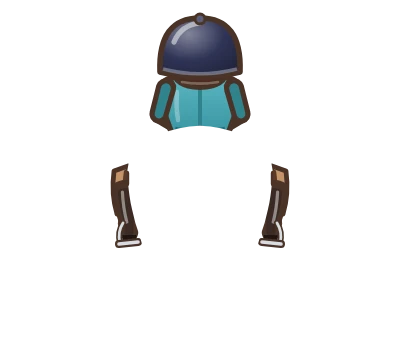
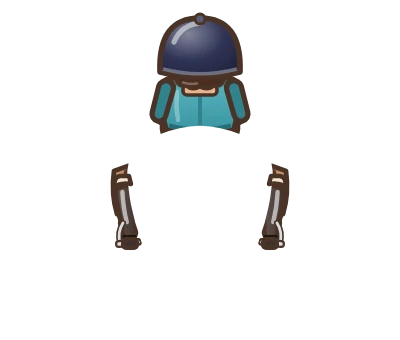
WIP: all racers behind the start line, per-rival launch/avoid, results portraits + gaps, MLS polish
Claude-Session: https://claude.ai/code/session_011bftBeXudnSzAMBxDFXhpR

diff --git a/engine.js b/engine.js
@@ -3752,14 +3752,18 @@ function r3Rivals() {
   if (R3.mode === "chase") { r3ChaseInit(); return; }
   if (R3.mode !== "rivals" || !RV || !(RV.list || []).length) return;
   const n = Math.min(RV.count || RV.list.length, RV.list.length), sk = RV.skill || [0.84, 0.97];
+  // each race shuffles who is fast: a strong rider can start at the back and come through the field
+  const rnd = r3Rng((Date.now() & 0xffff) + 7), order = [...Array(n).keys()].sort(() => rnd() - 0.5), av = RV.avoid || [0.7, 0.95];
   for (let k = 0; k < n; k++) {
     const d = RV.list[k], base = r3Img(d.sprite); if (!base) continue;
     const rid = d.rider ? r3Img(d.rider) : null;
     R3.rivals.push({
-      name: d.name || "#" + (k + 1), color: d.color || null, img: r3Tint(base, d.tint || null), rider: rid ? r3Tint(rid, d.riderTint || null) : null,
+      name: d.name || "#" + (k + 1), color: d.color || null, head: d.head || null, img: r3Tint(base, d.tint || null), rider: rid ? r3Tint(rid, d.riderTint || null) : null,
       scale: d.scale || RV.scale || 6.5, hw: d.hw != null ? d.hw : (RV.hw != null ? RV.hw : 0.28),
       // the front of the grid is the strongest; everybody gets a little personality (wobble phase, lane)
-      skill: n > 1 ? sk[1] - (sk[1] - sk[0]) * (k / (n - 1)) : sk[1], row: k,
+      skill: n > 1 ? sk[1] - (sk[1] - sk[0]) * (order[k] / (n - 1)) : sk[1], row: k,
+      // a personal start (reaction 0–0.4 s, launch 0.6–1.5) and how often it dodges an obstacle in time
+      react: rnd() * 0.4, launch: 0.6 + rnd() * 0.9, avoid: av[0] + rnd() * (av[1] - av[0]), seen: new Set(), slowT: 0,
       x: RV.lanes ? RV.lanes[k % RV.lanes.length] : (k % 2 ? 0.45 : -0.45), tx: RV.lanes ? RV.lanes[k % RV.lanes.length] : (k % 2 ? 0.45 : -0.45),
       ph: k * 1.7, z: 0, speed: 0, done: 0,
     });
@@ -3902,8 +3906,10 @@ function r3Grid() {
   // gridFirst (segments): the first row starts far enough ahead not to overlap the player's sprite
   const RV = RACE.rivals, gap = R3.segLen * (RV.gridGap || 4), first = R3.segLen * (RV.gridFirst || 0), pz = r3PlayerZ(), n = R3.rivals.length;
   R3.rivals.forEach((r) => { r.z = pz + first + gap * (Math.floor((n - 1 - r.row) / 2) + 1) + (r.row % 2) * gap * 0.5; });
-  // a chequered start line just in front of the player (rivals.startLine:false hides it)
-  if (RV.startLine !== false) { const i0 = Math.floor((pz + R3.segLen * 1.5) / R3.segLen); for (let i = i0; i < i0 + 2 && R3.segs[i]; i++) R3.segs[i].start = true; }
+  // the chequered start line is just in FRONT of the whole field: everybody starts behind it
+  // (rivals.startLine:false hides it)
+  const front = Math.max(pz, ...R3.rivals.map((r) => r.z));
+  if (RV.startLine !== false) { const i0 = Math.floor((front + R3.segLen * 1.2) / R3.segLen); for (let i = i0; i < i0 + 2 && R3.segs[i]; i++) R3.segs[i].start = true; }
   R3.gridSet = true;
 }
 // player's track position = where the ride is DRAWN (camera + carDepth)
@@ -3916,14 +3922,21 @@ function r3RivalsUpdate(dt) {
     if (r.done) return;
     // target speed: own skill x the player's top speed, a slow wobble, and a rubber band that keeps the pack in reach
     const lead = clamp((r.z - pz) / reach, -1, 1);
-    const target = R3.baseMax * r.skill * (1 + 0.04 * Math.sin(R3.time * 0.7 + r.ph)) * (1 - rubber * lead);
-    r.speed += (target - r.speed) * Math.min(1, dt * 0.9);
-    r.z += r.speed * dt;
-    // steer around obstacles a few segments ahead, otherwise drift back to a racing line
+    const target = R3.baseMax * r.skill * (1 + 0.04 * Math.sin(R3.time * 0.7 + r.ph)) * (1 - rubber * lead) * (r.slowT > 0 ? 0.45 : 1);
+    if (R3.time >= r.react) r.speed += (target - r.speed) * Math.min(1, dt * 0.9 * r.launch);   // own reaction + launch
+    if (r.slowT > 0) r.slowT -= dt;
+    const z0 = r.z; r.z += r.speed * dt;
+    // obstacles: dodged in time most of the time (r.avoid), sometimes hit → it stumbles and slows down
     const si = Math.floor(r.z / R3.segLen); let avoid = null;
     for (let i = si + 1; i < si + 9 && i < R3.segs.length; i++) {
-      const o = R3.segs[i].obstacles.find((ob) => !ob.dead && Math.abs(ob.offset - r.tx) < ob.hw + r.hw + 0.1); if (o) { avoid = o; break; }
+      const o = R3.segs[i].obstacles.find((ob) => !ob.dead && Math.abs(ob.offset - r.tx) < ob.hw + r.hw + 0.1);
+      if (!o) continue;
+      if (!r.seen.has(o)) { r.seen.add(o); o["miss" + r.row] = Math.random() > r.avoid; }
+      if (!o["miss" + r.row]) { avoid = o; break; }
     }
+    for (let i = Math.floor(z0 / R3.segLen) + 1; i <= si && i < R3.segs.length; i++) R3.segs[i].obstacles.forEach((ob) => {
+      if (!ob.dead && Math.abs(ob.offset - r.x) < ob.hw + r.hw * 0.6 && !ob["hit" + r.row]) { ob["hit" + r.row] = true; r.slowT = 1.1; r.speed *= 0.5; }
+    });
     if (avoid) r.tx = clamp(avoid.offset + (avoid.offset > 0 ? -1 : 1) * (avoid.hw + r.hw + 0.2), -0.85, 0.85);
     else if (Math.random() < dt * 0.25) r.tx = clamp(r.tx + (Math.random() - 0.5) * 0.6, -0.7, 0.7);
     r.x += (r.tx - r.x) * Math.min(1, dt * 2.2);
@@ -4138,8 +4151,12 @@ function endRace(win, quit) {
 // stats (raceWin for 1st, racePodium for top 3), results modal with the podium.
 function r3Results() {
   const RV = RACE.rivals, pz = r3PlayerZ(), you = { name: state.player.name || "You", you: true, done: R3.time, z: pz };
-  const field = R3.rivals.map((r) => ({ name: r.name, color: r.color, done: r.done, z: r.z })).concat([you]);
-  field.sort((a, b) => (a.done && b.done) ? a.done - b.done : a.done ? -1 : b.done ? 1 : b.z - a.z);
+  const field = R3.rivals.map((r) => ({ name: r.name, color: r.color, head: r.head, done: r.done, z: r.z, speed: r.speed })).concat([you]);
+  you.head = (charDef(state.player.avatar) || {}).raceHead || null;
+  // racers still on the course get an estimated finish time (remaining distance / their pace): the ranking and
+  // the gaps shown are both based on it, so they always agree
+  field.forEach((f) => { f.total = f.done || (R3.time + Math.max(0, R3.finishZ - f.z) / Math.max(f.speed || R3.baseMax * 0.8, R3.baseMax * 0.3)); });
+  field.sort((a, b) => (a.done && b.done) ? a.done - b.done : a.done ? -1 : b.done ? 1 : a.total - b.total);
   const place = field.indexOf(you) + 1;
   const rewards = RV.rewards || [RACE.reward || 30, 15, 8, 4];
   const r = rewards[Math.min(place, rewards.length) - 1] || 0;
@@ -4151,8 +4168,12 @@ function r3Results() {
   if (place <= 3) { Sound.play("celebrate"); confetti(); } else Sound.play("reward");
   const medal = (k) => k <= 3 ? `<span class="rr-medal m${k}">${iconHTML(RV.medalIcon || "trophy")}</span>` : `<span class="rr-medal">${k}</span>`;
   // rivals.list[].color: a swatch of the colour seen in the race (jacket, car), so the names match the field
-  const rows = field.map((f, i) => `<div class="rr-row${f.you ? " you" : ""}">${medal(i + 1)}${f.color ? `<i class="rr-swatch" style="background:${esc(f.color)}"></i>` : ""}<b>${esc(f.name)}</b>
-      <span class="rr-time">${f.done ? f.done.toFixed(1) + "s" : ""}</span></div>`).join("");
+  // rivals.list[].head / character.raceHead: a small portrait (the helmet seen in the race) instead of the swatch;
+  // a rival still racing shows its estimated gap to the finish ("+n.n s")
+  const tag = (f) => f.head && assetPath(f.head) ? `<img class="rr-head-ico" src="${av(assetPath(f.head))}" alt="">` : f.color ? `<i class="rr-swatch" style="background:${esc(f.color)}"></i>` : "";
+  const est = (f) => f.done ? f.done.toFixed(1) + "s" : "+" + Math.max(0.1, f.total - R3.time).toFixed(1) + "s";
+  const rows = field.map((f, i) => `<div class="rr-row${f.you ? " you" : ""}">${medal(i + 1)}${tag(f)}<b>${esc(f.name)}</b>
+      <span class="rr-time">${est(f)}</span></div>`).join("");
   const msgs = RV.placeMessages || [];
   const head = (msgs[Math.min(place, msgs.length) - 1] || "{place}").replace("{place}", r3PlaceLabel(place)).replace("{r}", r);
   openModal(RV.resultsTitle || "{i:flag} Results", `<div class="race-results"><p class="rr-head">${fmt(head)}</p>

diff --git a/game.config.js b/game.config.js
@@ -159,6 +159,13 @@ window.GAME = {
       rider_rival_1: { path: "assets/img/rider_rival_1.webp", res: 2 }, rider_rival_2: { path: "assets/img/rider_rival_2.webp", res: 2 },
       rider_rival_3: { path: "assets/img/rider_rival_3.webp", res: 2 }, rider_rival_4: { path: "assets/img/rider_rival_4.webp", res: 2 },
       rider_rival_5: { path: "assets/img/rider_rival_5.webp", res: 2 },
+      // results-screen portraits (helmet seen from behind)
+      rider_head_fille: { path: "assets/img/rider_head_fille.webp", res: 2 }, rider_head_garcon: { path: "assets/img/rider_head_garcon.webp", res: 2 },
+      rival_head_1: { path: "assets/img/rival_head_1.webp", res: 2 },
+      rival_head_2: { path: "assets/img/rival_head_2.webp", res: 2 },
+      rival_head_3: { path: "assets/img/rival_head_3.webp", res: 2 },
+      rival_head_4: { path: "assets/img/rival_head_4.webp", res: 2 },
+      rival_head_5: { path: "assets/img/rival_head_5.webp", res: 2 },
       horse_back_gris: { path: "assets/img/horse_back_gris.webp", res: 2 }, horse_back_palomino: { path: "assets/img/horse_back_palomino.webp", res: 2 },
       horse_back_blanc: { path: "assets/img/horse_back_blanc.webp", res: 2 },
       race_log: { path: "assets/img/race_log.webp", res: 2 }, race_hurdle: { path: "assets/img/race_hurdle.webp", res: 2 },
@@ -188,8 +195,8 @@ window.GAME = {
     shadow: { w: 34, h: 12 },
   },
   characters: [
-    { id: "fille", name: "Cavalière", sheet: "kid_fille", rideSheet: "kid_fille_ride", raceRider: "rider_back_fille", thumb: "assets/ui/kid_fille.webp" },
-    { id: "garcon", name: "Cavalier", sheet: "kid_garcon", rideSheet: "kid_garcon_ride", raceRider: "rider_back_garcon", thumb: "assets/ui/kid_garcon.webp" },
+    { id: "fille", name: "Cavalière", sheet: "kid_fille", rideSheet: "kid_fille_ride", raceRider: "rider_back_fille", raceHead: "rider_head_fille", thumb: "assets/ui/kid_fille.webp" },
+    { id: "garcon", name: "Cavalier", sheet: "kid_garcon", rideSheet: "kid_garcon_ride", raceRider: "rider_back_garcon", raceHead: "rider_head_garcon", thumb: "assets/ui/kid_garcon.webp" },
   ],
 
   /* ---- Horses ---- */
@@ -289,13 +296,13 @@ window.GAME = {
     horizon: 0.42,                           // tall phones: more road, less empty sky
     rivals: {
       list: [
-        { name: "Hugo", sprite: "horse_back_gris", rider: "rider_rival_1", color: "#a98bf0" },
-        { name: "Léa", sprite: "horse_back_noir", rider: "rider_rival_2", color: "#4fbf5e" },
-        { name: "Tom", sprite: "horse_back_palomino", rider: "rider_rival_3", color: "#4a6fe0" },
-        { name: "Inès", sprite: "horse_back_bai", rider: "rider_rival_4", color: "#ff9640" },
-        { name: "Jade", sprite: "horse_back_blanc", rider: "rider_rival_5", color: "#f27fb8" },
+        { name: "Hugo", sprite: "horse_back_gris", rider: "rider_rival_1", head: "rival_head_1", color: "#a98bf0" },
+        { name: "Léa", sprite: "horse_back_noir", rider: "rider_rival_2", head: "rival_head_2", color: "#4fbf5e" },
+        { name: "Tom", sprite: "horse_back_palomino", rider: "rider_rival_3", head: "rival_head_3", color: "#4a6fe0" },
+        { name: "Inès", sprite: "horse_back_bai", rider: "rider_rival_4", head: "rival_head_4", color: "#ff9640" },
+        { name: "Jade", sprite: "horse_back_blanc", rider: "rider_rival_5", head: "rival_head_5", color: "#f5c23a" },
       ],
-      scale: 11, hw: 0.28, skill: [0.8, 0.95], gridGap: 5, gridFirst: 4, lanes: [-0.62, 0.62, -0.25, 0.25],
+      scale: 11, hw: 0.28, skill: [0.8, 0.95], gridGap: 6, gridFirst: 4, lanes: [-0.62, 0.62, -0.25, 0.25],
       rewards: [40, 25, 15, 8, 5, 3],
       placeLabels: ["1er", "2e", "3e", "4e", "5e", "6e"],
       placeMessages: ["{i:trophy} Tu as gagné la course !", "{i:star} Bravo, tu finis 2e !", "{i:star} Super, tu montes sur le podium : 3e !", "Tu finis {place}. Essaie de doubler plus de cavaliers !"],

diff --git a/engine.css b/engine.css
@@ -392,6 +392,8 @@ input[type="text"]::placeholder { color: var(--muted); opacity: 0.65; }
 .rr-row { display: flex; align-items: center; gap: 10px; padding: 6px 12px 6px 6px; border-radius: 14px; background: rgba(0, 0, 0, 0.06); }
 .rr-row.you { background: var(--accent, #ffd24a); box-shadow: 0 2px 0 rgba(0, 0, 0, 0.15); font-weight: 700; }
 .rr-row b { flex: 1; min-width: 0; overflow: hidden; text-overflow: ellipsis; white-space: nowrap; }
+.rr-head-ico { width: 32px; height: 32px; flex: 0 0 32px; object-fit: cover; border-radius: 50%; background: #fff; box-shadow: 0 0 0 2px rgba(0, 0, 0, .25); }
+.rr-medal.m2 .ico { filter: grayscale(1) brightness(1.15); } .rr-medal.m3 .ico { filter: sepia(1) saturate(1.6) hue-rotate(-12deg) brightness(.85); }
 .rr-swatch { width: 14px; height: 14px; flex: 0 0 14px; border-radius: 50%; border: 2px solid rgba(0, 0, 0, 0.35); }
 .rr-time { font-variant-numeric: tabular-nums; opacity: .75; font-size: .9rem; }
 .rr-medal { width: 34px; height: 34px; flex: 0 0 34px; border-radius: 50%; display: flex; align-items: center; justify-content: center;

diff --git a/ENGINE.md b/ENGINE.md
@@ -203,7 +203,7 @@ Everything in `assets` is preloaded automatically (with cache-busting via `av()`
 ```
 player: { scale, speed:{walk,run,rideWalk,rideRun}, spawn:{x,y}, nameY, shadow:{w,h},
           frameRate, originY, showName }  // nameY = y offset of the name label above the head (default -80)
-characters: [ { id, name, sheet, thumb, rideSheet?, raceRider? } ]   // sheet = LPC walkcycle (9 cols × 4 rows: up,left,down,right;
+characters: [ { id, name, sheet, thumb, rideSheet?, raceRider?, raceHead? } ]   // sheet = LPC walkcycle (9 cols × 4 rows: up,left,down,right;
                                              // col 0 = idle) at any frame size; thumb in assets/ui/
                                              // rideSheet = ONE frame, the character SEATED (side view facing
                                              // left; flipped for right) shown while riding (ride.sitY places it)
@@ -548,15 +548,16 @@ race: { time, reward, stat:"raceWin", hitPenalty, sprite, rideWidth:0.32 /* ride
 //   red chevrons rise beside the ride and a red/blue glow pulses on the edges when it is near. Caught = it pulls
 //   alongside and passes, then the "caught" result. Probe: probes/racechase.cjs.
 // rivals (optional) — a REAL race instead of a time trial: a fixed field to overtake.
-//   rivals: { list:[{ name, sprite, tint?, rider?, riderTint?, color? /* results swatch */, scale?, hw? }], count?, scale:6.5, hw:0.28,
+//   rivals: { list:[{ name, sprite, tint?, rider?, riderTint?, color? /* results swatch */, head? /* results portrait (image key) */, scale?, hw? }], count?, scale:6.5, hw:0.28,
 //             lanes:[-0.45,0.45] /* grid lanes */, gridFirst:0 /* segments before the first row */,
 //             skill:[0.84,0.97] /* top-speed share, front of the grid = strongest */, gridGap:4 /* segments */,
-//             rubber:0.12 /* pack stays in reach */, countdown:3.2, maxTime:240,
+//             rubber:0.12 /* pack stays in reach */, avoid:[0.7,0.95] /* chance to dodge each obstacle */, countdown:3.2, maxTime:240,
 //             rewards:[1st,2nd,3rd,...], placeLabels:["1st","2nd","3rd"], placeSuffix:"th",
 //             placeMessages:["{place}"...] /* by place, last one reused */, resultsTitle, startMessage,
 //             bumpMessage("{name}"), hitMessage, goLabel:"GO!", podiumStat:"racePodium", medalIcon:"trophy" }
-//   The player starts LAST on a two-by-two grid after a 3-2-1 countdown (real seconds); rivals drive their own
-//   speed with a wobble and a rubber band, steer around obstacles; bumping one costs speed (no time penalty);
+//   Everybody starts BEHIND the chequered start line (the player in the last row) after a 3-2-1 countdown (real
+//   seconds). Each race shuffles who is fast; every rival has its own reaction time and launch, a wobble and a
+//   rubber band, and dodges obstacles most of the time (a hit makes it stumble and slow down for ~1 s); bumping one costs speed (no time penalty);
 //   the time chip counts UP; a live place chip "n/N" (icons.place) replaces the distance and pops on overtakes.
 //   At the line: results modal (ranking, medals, player row highlighted, reward by place); stats raceRun,
 //   raceWin (1st), racePodium (top 3), raceBest. A rival = sprite (tinted) + optional rider layer (tinted).
